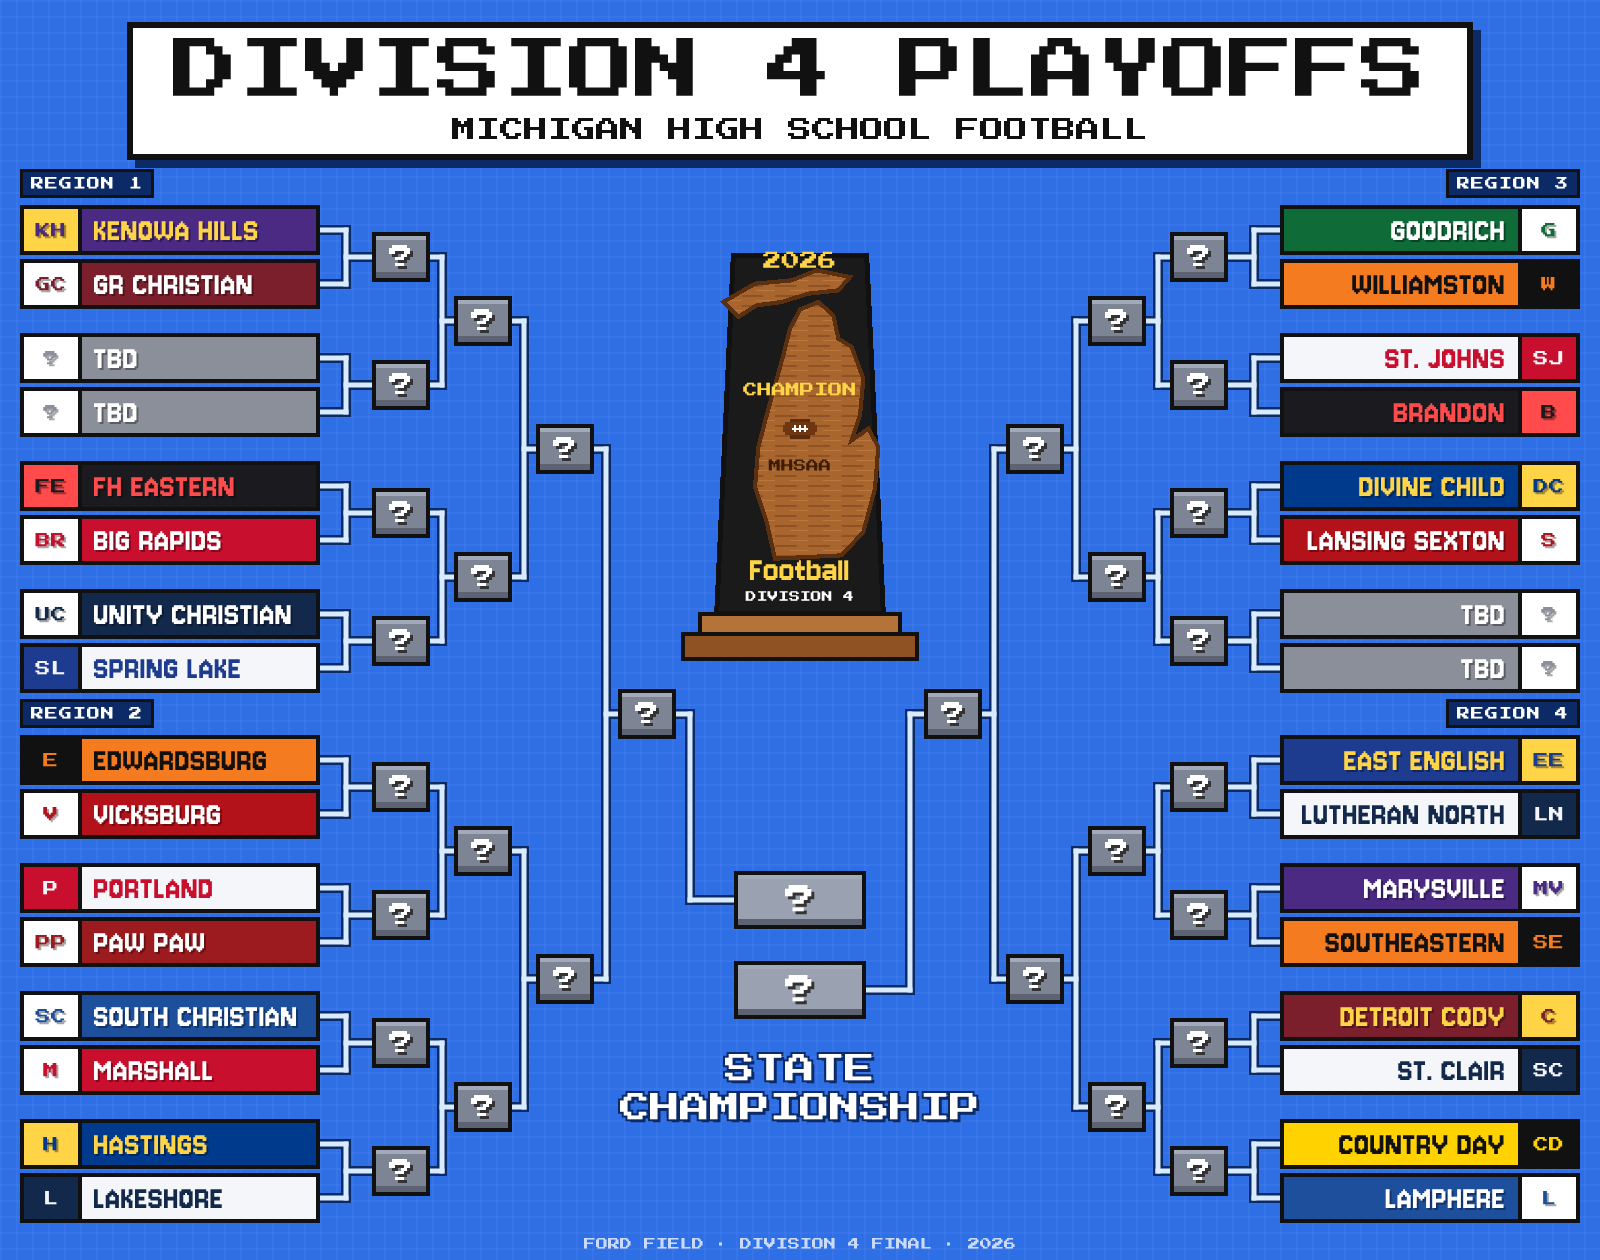
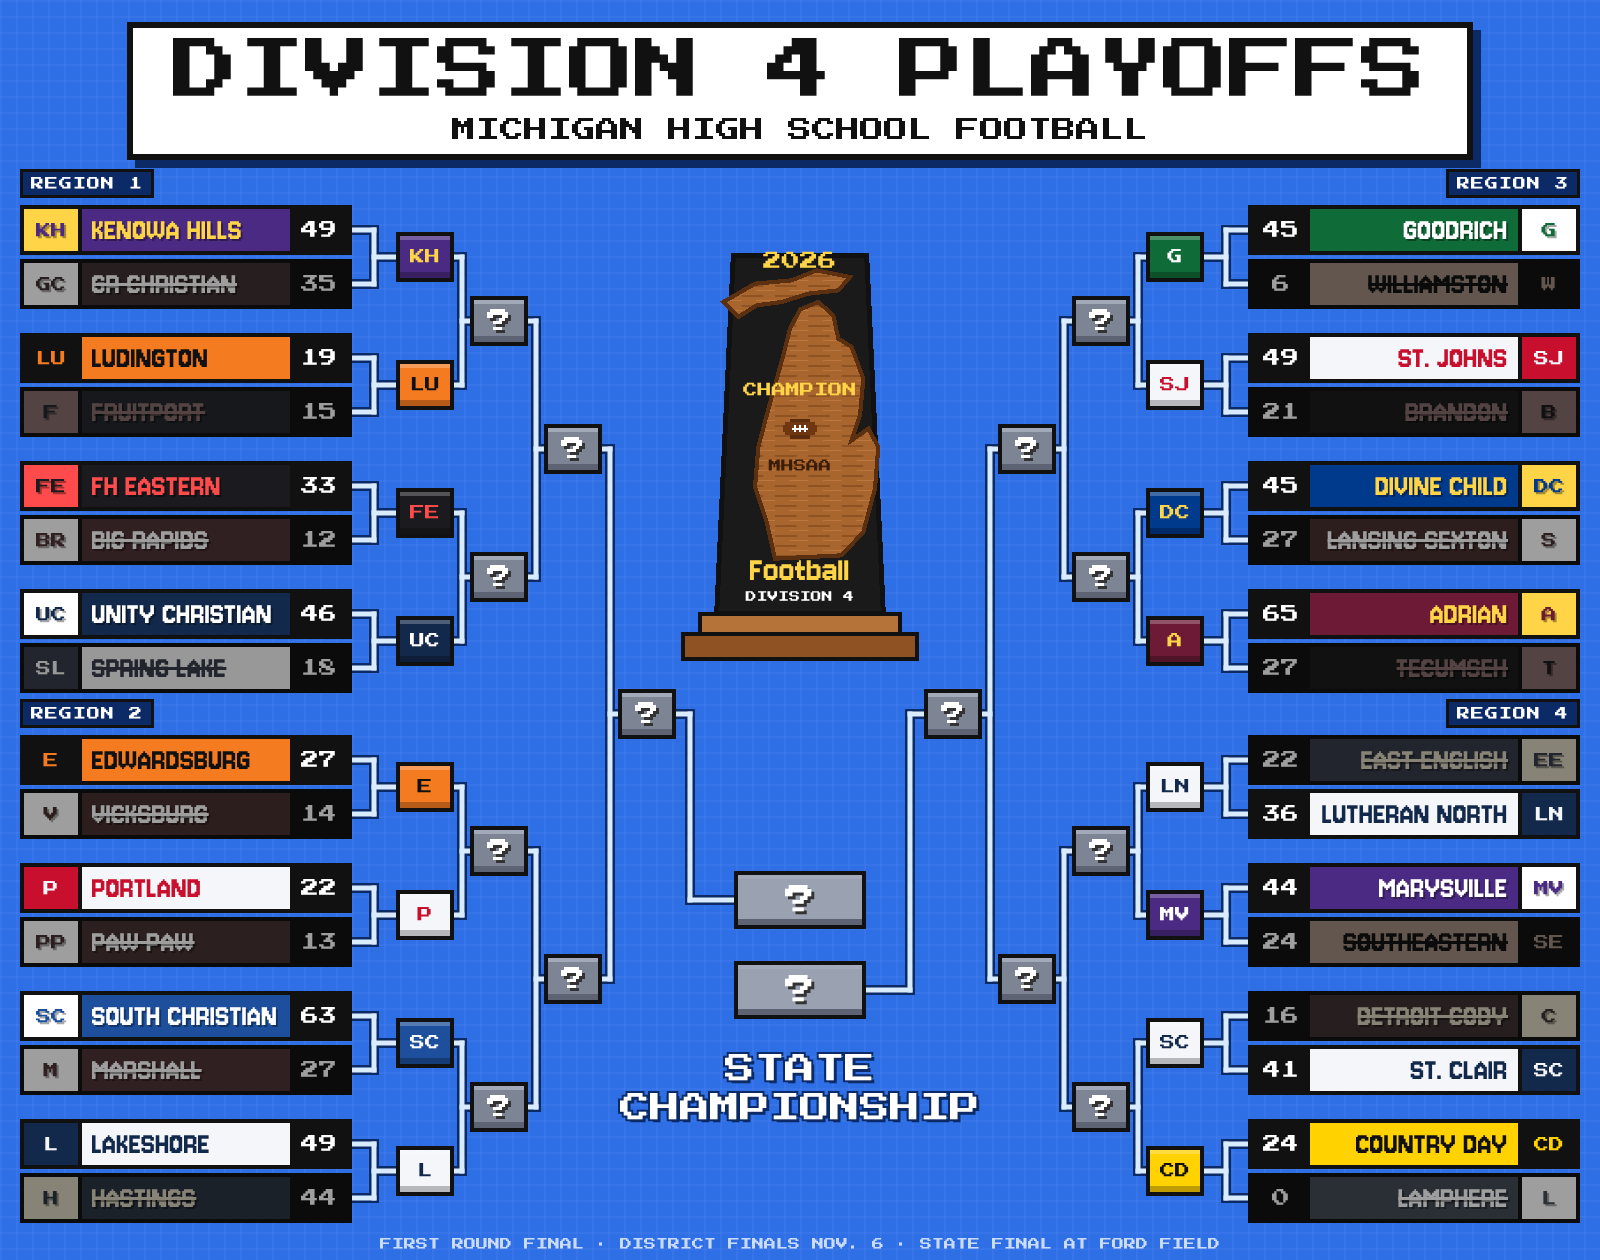
Fill in Division 4 first-round results
Claude-Session: https://claude.ai/code/session_01BgVrJkr3FxsWKHnwBBDvuB

diff --git a/d4-bracket/division4-bracket.html b/d4-bracket/division4-bracket.html
@@ -14,13 +14,18 @@ html,body{margin:0;background:#111}
 .title h2{margin:14px 0 0;font:400 24px/1 Silk;letter-spacing:0;color:#111}
 svg{position:absolute;left:0;top:0}
 .card{position:absolute;display:flex;align-items:center;border:4px solid #111;box-sizing:border-box;
-  font:400 35px/1 Pix;letter-spacing:.5px;text-shadow:2px 2px 0 rgba(0,0,0,.35);white-space:nowrap;overflow:hidden}
+  font:400 33px/1 Pix;letter-spacing:0;text-shadow:2px 2px 0 rgba(0,0,0,.35);white-space:nowrap;overflow:hidden}
 .card.light{text-shadow:none}
 .card .logo{flex:none;width:58px;height:100%;display:flex;align-items:center;justify-content:center;
   font:400 15px/1 Silk;border-right:4px solid #111;box-sizing:border-box}
-.card .nm{padding:0 12px;flex:1}
+.card .nm{padding:0 10px;flex:1;overflow:hidden}
 .right .logo{order:2;border-right:none;border-left:4px solid #111}
 .right .nm{text-align:right}
+.card .sc{flex:none;width:58px;height:100%;display:flex;align-items:center;justify-content:center;background:#111;color:#fff;font:400 18px/1 Silk;text-shadow:none}
+.right .sc{order:-1}
+.card.lost{filter:grayscale(.85) brightness(.62)}
+.card.lost .nm{text-decoration:line-through;text-decoration-thickness:3px}
+.q.win{font:400 15px/42px Silk;text-shadow:none;box-shadow:inset 0 -6px 0 rgba(0,0,0,.25), inset 0 4px 0 rgba(255,255,255,.25)}
 .q{position:absolute;width:58px;height:50px;background:#7d8494;border:4px solid #111;box-sizing:border-box;
   box-shadow:inset 0 -6px 0 #5d6372, inset 0 4px 0 #a2a9b8;color:#fff;font:400 24px/42px Silk;text-align:center;
   text-shadow:3px 3px 0 #333}
@@ -35,9 +40,9 @@ svg{position:absolute;left:0;top:0}
 <div id="trophy"></div>
 </div>
 <script>
-const LEFT=[{"n": "KENOWA HILLS", "m": "KH", "bg": "#4b2a83", "fg": "#ffd447"}, {"n": "GR CHRISTIAN", "m": "GC", "bg": "#7a1f2b", "fg": "#fff"}, {"n": "TBD", "m": "?", "bg": "#8a8f99", "fg": "#fff"}, {"n": "TBD", "m": "?", "bg": "#8a8f99", "fg": "#fff"}, {"n": "FH EASTERN", "m": "FE", "bg": "#1b1b1f", "fg": "#ff4b4b"}, {"n": "BIG RAPIDS", "m": "BR", "bg": "#c8102e", "fg": "#fff"}, {"n": "UNITY CHRISTIAN", "m": "UC", "bg": "#13294b", "fg": "#fff"}, {"n": "SPRING LAKE", "m": "SL", "bg": "#f4f6fa", "fg": "#1d3c8f"}, {"n": "EDWARDSBURG", "m": "E", "bg": "#f47b20", "fg": "#111"}, {"n": "VICKSBURG", "m": "V", "bg": "#b3121b", "fg": "#fff"}, {"n": "PORTLAND", "m": "P", "bg": "#f4f6fa", "fg": "#c8102e"}, {"n": "PAW PAW", "m": "PP", "bg": "#9b1b1f", "fg": "#fff"}, {"n": "SOUTH CHRISTIAN", "m": "SC", "bg": "#1d4f9c", "fg": "#fff"}, {"n": "MARSHALL", "m": "M", "bg": "#c8102e", "fg": "#fff"}, {"n": "HASTINGS", "m": "H", "bg": "#003a8c", "fg": "#ffd447"}, {"n": "LAKESHORE", "m": "L", "bg": "#f4f6fa", "fg": "#13294b"}], RIGHT=[{"n": "GOODRICH", "m": "G", "bg": "#0f6b37", "fg": "#fff"}, {"n": "WILLIAMSTON", "m": "W", "bg": "#f47b20", "fg": "#111"}, {"n": "ST. JOHNS", "m": "SJ", "bg": "#f4f6fa", "fg": "#c8102e"}, {"n": "BRANDON", "m": "B", "bg": "#1b1b1f", "fg": "#ff4b4b"}, {"n": "DIVINE CHILD", "m": "DC", "bg": "#003a8c", "fg": "#ffd447"}, {"n": "LANSING SEXTON", "m": "S", "bg": "#b3121b", "fg": "#fff"}, {"n": "TBD", "m": "?", "bg": "#8a8f99", "fg": "#fff"}, {"n": "TBD", "m": "?", "bg": "#8a8f99", "fg": "#fff"}, {"n": "EAST ENGLISH", "m": "EE", "bg": "#1d3c8f", "fg": "#ffd447"}, {"n": "LUTHERAN NORTH", "m": "LN", "bg": "#f4f6fa", "fg": "#13294b"}, {"n": "MARYSVILLE", "m": "MV", "bg": "#4b2a83", "fg": "#fff"}, {"n": "SOUTHEASTERN", "m": "SE", "bg": "#f47b20", "fg": "#111"}, {"n": "DETROIT CODY", "m": "C", "bg": "#7a1f2b", "fg": "#ffd447"}, {"n": "ST. CLAIR", "m": "SC", "bg": "#f4f6fa", "fg": "#13294b"}, {"n": "COUNTRY DAY", "m": "CD", "bg": "#ffd200", "fg": "#111"}, {"n": "LAMPHERE", "m": "L", "bg": "#1d4f9c", "fg": "#fff"}];
+const LEFT=[{"n": "KENOWA HILLS", "m": "KH", "bg": "#4b2a83", "fg": "#ffd447", "s": 49}, {"n": "GR CHRISTIAN", "m": "GC", "bg": "#7a1f2b", "fg": "#fff", "s": 35}, {"n": "LUDINGTON", "m": "LU", "bg": "#f47b20", "fg": "#111", "s": 19}, {"n": "FRUITPORT", "m": "F", "bg": "#13294b", "fg": "#ff4b4b", "s": 15}, {"n": "FH EASTERN", "m": "FE", "bg": "#1b1b1f", "fg": "#ff4b4b", "s": 33}, {"n": "BIG RAPIDS", "m": "BR", "bg": "#c8102e", "fg": "#fff", "s": 12}, {"n": "UNITY CHRISTIAN", "m": "UC", "bg": "#13294b", "fg": "#fff", "s": 46}, {"n": "SPRING LAKE", "m": "SL", "bg": "#f4f6fa", "fg": "#1d3c8f", "s": 18}, {"n": "EDWARDSBURG", "m": "E", "bg": "#f47b20", "fg": "#111", "s": 27}, {"n": "VICKSBURG", "m": "V", "bg": "#b3121b", "fg": "#fff", "s": 14}, {"n": "PORTLAND", "m": "P", "bg": "#f4f6fa", "fg": "#c8102e", "s": 22}, {"n": "PAW PAW", "m": "PP", "bg": "#9b1b1f", "fg": "#fff", "s": 13}, {"n": "SOUTH CHRISTIAN", "m": "SC", "bg": "#1d4f9c", "fg": "#fff", "s": 63}, {"n": "MARSHALL", "m": "M", "bg": "#c8102e", "fg": "#fff", "s": 27}, {"n": "LAKESHORE", "m": "L", "bg": "#f4f6fa", "fg": "#13294b", "s": 49}, {"n": "HASTINGS", "m": "H", "bg": "#003a8c", "fg": "#ffd447", "s": 44}], RIGHT=[{"n": "GOODRICH", "m": "G", "bg": "#0f6b37", "fg": "#fff", "s": 45}, {"n": "WILLIAMSTON", "m": "W", "bg": "#f47b20", "fg": "#111", "s": 6}, {"n": "ST. JOHNS", "m": "SJ", "bg": "#f4f6fa", "fg": "#c8102e", "s": 49}, {"n": "BRANDON", "m": "B", "bg": "#1b1b1f", "fg": "#ff4b4b", "s": 21}, {"n": "DIVINE CHILD", "m": "DC", "bg": "#003a8c", "fg": "#ffd447", "s": 45}, {"n": "LANSING SEXTON", "m": "S", "bg": "#b3121b", "fg": "#fff", "s": 27}, {"n": "ADRIAN", "m": "A", "bg": "#6d1a36", "fg": "#ffd447", "s": 65}, {"n": "TECUMSEH", "m": "T", "bg": "#1b1b1f", "fg": "#ff4b4b", "s": 27}, {"n": "EAST ENGLISH", "m": "EE", "bg": "#1d3c8f", "fg": "#ffd447", "s": 22}, {"n": "LUTHERAN NORTH", "m": "LN", "bg": "#f4f6fa", "fg": "#13294b", "s": 36}, {"n": "MARYSVILLE", "m": "MV", "bg": "#4b2a83", "fg": "#fff", "s": 44}, {"n": "SOUTHEASTERN", "m": "SE", "bg": "#f47b20", "fg": "#111", "s": 24}, {"n": "DETROIT CODY", "m": "C", "bg": "#7a1f2b", "fg": "#ffd447", "s": 16}, {"n": "ST. CLAIR", "m": "SC", "bg": "#f4f6fa", "fg": "#13294b", "s": 41}, {"n": "COUNTRY DAY", "m": "CD", "bg": "#ffd200", "fg": "#111", "s": 24}, {"n": "LAMPHERE", "m": "L", "bg": "#1d4f9c", "fg": "#fff", "s": 0}];
 const C=document.getElementById('c'), S=document.getElementById('lines');
-const W=1600, TOP=205, PAIR=128, CARD_H=50, CARD_W=300, BOX_W=58, BOX_H=50;
+const W=1600, TOP=205, PAIR=128, CARD_H=50, CARD_W=332, BOX_W=58, BOX_H=50;
 const LINE='#d9ecff', EDGE='#0b2a66';
 function el(cls,css,html){const d=document.createElement('div');d.className=cls;Object.assign(d.style,css);if(html!=null)d.innerHTML=html;C.appendChild(d);return d}
 function seg(x1,y1,x2,y2){for(const [c,w] of [[EDGE,10],[LINE,5]]){const l=document.createElementNS('http://www.w3.org/2000/svg','line');
@@ -50,17 +55,17 @@ function side(teams,dir){
   const right=dir<0, x0=right?W-20-CARD_W:20;
   const edge=right?x0:x0+CARD_W;
   // round x centers
-  const rx=[1,2,3,4].map(i=>right? edge-28-i*82+BOX_W/2 - 0 : edge+28+i*82-BOX_W/2);
+  const rx=[1,2,3,4].map(i=>right? edge-28-i*74+BOX_W/2 - 0 : edge+28+i*74-BOX_W/2);
   let ys=[];
   for(let p=0;p<8;p++){
     const y=TOP+p*PAIR + (p>=4?18:0);
-    const pairYs=[];
+    const pairYs=[];const a=teams[p*2],b=teams[p*2+1];const w=a.s>b.s?a:b;
     for(let k=0;k<2;k++){const t=teams[p*2+k];const light=t.bg=='#f4f6fa'||t.bg=='#ffd200'||t.bg=='#f47b20';
       const cy=y+k*(CARD_H+4);
-      const d=el('card'+(right?' right':'')+(light?' light':''),{left:x0+'px',top:cy+'px',width:CARD_W+'px',height:CARD_H+'px',background:t.bg,color:t.fg},
-        `<span class="logo" style="background:${t.fg};color:${t.bg}">${t.m}</span><span class="nm">${t.n}</span>`);
+      const d=el('card'+(right?' right':'')+(light?' light':'')+(t===w?'':' lost'),{left:x0+'px',top:cy+'px',width:CARD_W+'px',height:CARD_H+'px',background:t.bg,color:t.fg},
+        `<span class="logo" style="background:${t.fg};color:${t.bg}">${t.m}</span><span class="nm">${t.n}</span><span class="sc">${t.s}</span>`);
       pairYs.push(cy+CARD_H/2);}
-    const py=(pairYs[0]+pairYs[1])/2; join(edge,pairYs,rx[0]-dir*BOX_W/2,py,dir); box(rx[0],py); ys.push(py);
+    const py=(pairYs[0]+pairYs[1])/2; join(edge,pairYs,rx[0]-dir*BOX_W/2,py,dir); const wb=box(rx[0],py); wb.classList.add('win'); wb.textContent=w.m; wb.style.background=w.bg; wb.style.color=w.fg; ys.push(py);
   }
   for(let r=1;r<4;r++){const nys=[];for(let i=0;i<ys.length;i+=2){const py=(ys[i]+ys[i+1])/2;
     join(rx[r-1]+dir*BOX_W/2,[ys[i],ys[i+1]],rx[r]-dir*BOX_W/2,py,dir);box(rx[r],py);nys.push(py)}ys=nys}
@@ -77,7 +82,7 @@ seg(R.x,R.y,cx+110,R.y); seg(cx+110,cy2,cx+110,R.y); seg(cx+110,cy2,cx+66,cy2);
 el('champ',{top:'1050px'},'STATE<br>CHAMPIONSHIP');
 el('lbl',{left:'20px',top:(TOP-36)+'px'},'REGION 1');el('lbl',{left:'20px',top:(TOP+4*PAIR+18-36)+'px'},'REGION 2');
 el('lbl',{right:'20px',top:(TOP-36)+'px'},'REGION 3');el('lbl',{right:'20px',top:(TOP+4*PAIR+18-36)+'px'},'REGION 4');
-el('foot',{},'FORD FIELD &middot; DIVISION 4 FINAL &middot; 2026');
+el('foot',{},'FIRST ROUND FINAL &middot; DISTRICT FINALS NOV. 6 &middot; STATE FINAL AT FORD FIELD');
 // trophy (SVG, pixel-ish wooden Michigan plaque)
 document.getElementById('trophy').outerHTML=`<svg width="250" height="440" viewBox="0 0 300 528" style="left:675px;top:222px" shape-rendering="crispEdges">
  <defs><pattern id="wood" width="40" height="12" patternUnits="userSpaceOnUse"><rect width="40" height="12" fill="#a8652e"/><rect y="3" width="26" height="3" fill="#8f5222"/><rect x="18" y="9" width="22" height="2" fill="#bb7740"/></pattern></defs>

diff --git a/d4-bracket/build.py b/d4-bracket/build.py
@@ -5,30 +5,30 @@ silk = base64.b64encode(open("/tmp/ps2p.ttf", "rb").read()).decode()
 pix = base64.b64encode(open("/tmp/jersey.ttf", "rb").read()).decode()
 
 # (name, monogram, bg, fg) -- bg = card color, fg = text color
-T = lambda n, m, bg, fg="#fff": dict(n=n, m=m, bg=bg, fg=fg)
+T = lambda n, m, bg, fg="#fff", s=None: dict(n=n, m=m, bg=bg, fg=fg, s=s)
 TBD = T("TBD", "?", "#8a8f99", "#fff")
 
 # Bracket order: each group of 4 = one district (pairs feed a district final),
 # each group of 8 = one region.
-LEFT = [  # Regions 1 & 2
-    T("KENOWA HILLS", "KH", "#4b2a83", "#ffd447"), T("GR CHRISTIAN", "GC", "#7a1f2b"),
-    TBD, TBD,
-    T("FH EASTERN", "FE", "#1b1b1f", "#ff4b4b"), T("BIG RAPIDS", "BR", "#c8102e"),
-    T("UNITY CHRISTIAN", "UC", "#13294b"), T("SPRING LAKE", "SL", "#f4f6fa", "#1d3c8f"),
-    T("EDWARDSBURG", "E", "#f47b20", "#111"), T("VICKSBURG", "V", "#b3121b"),
-    T("PORTLAND", "P", "#f4f6fa", "#c8102e"), T("PAW PAW", "PP", "#9b1b1f"),
-    T("SOUTH CHRISTIAN", "SC", "#1d4f9c"), T("MARSHALL", "M", "#c8102e"),
-    T("HASTINGS", "H", "#003a8c", "#ffd447"), T("LAKESHORE", "L", "#f4f6fa", "#13294b"),
+LEFT = [  # Regions 1 & 2  (s = first-round score)
+    T("KENOWA HILLS", "KH", "#4b2a83", "#ffd447", 49), T("GR CHRISTIAN", "GC", "#7a1f2b", s=35),
+    T("LUDINGTON", "LU", "#f47b20", "#111", 19), T("FRUITPORT", "F", "#13294b", "#ff4b4b", 15),
+    T("FH EASTERN", "FE", "#1b1b1f", "#ff4b4b", 33), T("BIG RAPIDS", "BR", "#c8102e", s=12),
+    T("UNITY CHRISTIAN", "UC", "#13294b", s=46), T("SPRING LAKE", "SL", "#f4f6fa", "#1d3c8f", 18),
+    T("EDWARDSBURG", "E", "#f47b20", "#111", 27), T("VICKSBURG", "V", "#b3121b", s=14),
+    T("PORTLAND", "P", "#f4f6fa", "#c8102e", 22), T("PAW PAW", "PP", "#9b1b1f", s=13),
+    T("SOUTH CHRISTIAN", "SC", "#1d4f9c", s=63), T("MARSHALL", "M", "#c8102e", s=27),
+    T("LAKESHORE", "L", "#f4f6fa", "#13294b", 49), T("HASTINGS", "H", "#003a8c", "#ffd447", 44),
 ]
 RIGHT = [  # Regions 3 & 4
-    T("GOODRICH", "G", "#0f6b37"), T("WILLIAMSTON", "W", "#f47b20", "#111"),
-    T("ST. JOHNS", "SJ", "#f4f6fa", "#c8102e"), T("BRANDON", "B", "#1b1b1f", "#ff4b4b"),
-    T("DIVINE CHILD", "DC", "#003a8c", "#ffd447"), T("LANSING SEXTON", "S", "#b3121b"),
-    TBD, TBD,
-    T("EAST ENGLISH", "EE", "#1d3c8f", "#ffd447"), T("LUTHERAN NORTH", "LN", "#f4f6fa", "#13294b"),
-    T("MARYSVILLE", "MV", "#4b2a83"), T("SOUTHEASTERN", "SE", "#f47b20", "#111"),
-    T("DETROIT CODY", "C", "#7a1f2b", "#ffd447"), T("ST. CLAIR", "SC", "#f4f6fa", "#13294b"),
-    T("COUNTRY DAY", "CD", "#ffd200", "#111"), T("LAMPHERE", "L", "#1d4f9c"),
+    T("GOODRICH", "G", "#0f6b37", s=45), T("WILLIAMSTON", "W", "#f47b20", "#111", 6),
+    T("ST. JOHNS", "SJ", "#f4f6fa", "#c8102e", 49), T("BRANDON", "B", "#1b1b1f", "#ff4b4b", 21),
+    T("DIVINE CHILD", "DC", "#003a8c", "#ffd447", 45), T("LANSING SEXTON", "S", "#b3121b", s=27),
+    T("ADRIAN", "A", "#6d1a36", "#ffd447", 65), T("TECUMSEH", "T", "#1b1b1f", "#ff4b4b", 27),
+    T("EAST ENGLISH", "EE", "#1d3c8f", "#ffd447", 22), T("LUTHERAN NORTH", "LN", "#f4f6fa", "#13294b", 36),
+    T("MARYSVILLE", "MV", "#4b2a83", s=44), T("SOUTHEASTERN", "SE", "#f47b20", "#111", 24),
+    T("DETROIT CODY", "C", "#7a1f2b", "#ffd447", 16), T("ST. CLAIR", "SC", "#f4f6fa", "#13294b", 41),
+    T("COUNTRY DAY", "CD", "#ffd200", "#111", 24), T("LAMPHERE", "L", "#1d4f9c", s=0),
 ]
 
 html = r"""<!DOCTYPE html>
@@ -47,13 +47,18 @@ html,body{margin:0;background:#111}
 .title h2{margin:14px 0 0;font:400 24px/1 Silk;letter-spacing:0;color:#111}
 svg{position:absolute;left:0;top:0}
 .card{position:absolute;display:flex;align-items:center;border:4px solid #111;box-sizing:border-box;
-  font:400 35px/1 Pix;letter-spacing:.5px;text-shadow:2px 2px 0 rgba(0,0,0,.35);white-space:nowrap;overflow:hidden}
+  font:400 33px/1 Pix;letter-spacing:0;text-shadow:2px 2px 0 rgba(0,0,0,.35);white-space:nowrap;overflow:hidden}
 .card.light{text-shadow:none}
 .card .logo{flex:none;width:58px;height:100%;display:flex;align-items:center;justify-content:center;
   font:400 15px/1 Silk;border-right:4px solid #111;box-sizing:border-box}
-.card .nm{padding:0 12px;flex:1}
+.card .nm{padding:0 10px;flex:1;overflow:hidden}
 .right .logo{order:2;border-right:none;border-left:4px solid #111}
 .right .nm{text-align:right}
+.card .sc{flex:none;width:58px;height:100%;display:flex;align-items:center;justify-content:center;background:#111;color:#fff;font:400 18px/1 Silk;text-shadow:none}
+.right .sc{order:-1}
+.card.lost{filter:grayscale(.85) brightness(.62)}
+.card.lost .nm{text-decoration:line-through;text-decoration-thickness:3px}
+.q.win{font:400 15px/42px Silk;text-shadow:none;box-shadow:inset 0 -6px 0 rgba(0,0,0,.25), inset 0 4px 0 rgba(255,255,255,.25)}
 .q{position:absolute;width:58px;height:50px;background:#7d8494;border:4px solid #111;box-sizing:border-box;
   box-shadow:inset 0 -6px 0 #5d6372, inset 0 4px 0 #a2a9b8;color:#fff;font:400 24px/42px Silk;text-align:center;
   text-shadow:3px 3px 0 #333}
@@ -70,7 +75,7 @@ svg{position:absolute;left:0;top:0}
 <script>
 const LEFT=__LEFT__, RIGHT=__RIGHT__;
 const C=document.getElementById('c'), S=document.getElementById('lines');
-const W=1600, TOP=205, PAIR=128, CARD_H=50, CARD_W=300, BOX_W=58, BOX_H=50;
+const W=1600, TOP=205, PAIR=128, CARD_H=50, CARD_W=332, BOX_W=58, BOX_H=50;
 const LINE='#d9ecff', EDGE='#0b2a66';
 function el(cls,css,html){const d=document.createElement('div');d.className=cls;Object.assign(d.style,css);if(html!=null)d.innerHTML=html;C.appendChild(d);return d}
 function seg(x1,y1,x2,y2){for(const [c,w] of [[EDGE,10],[LINE,5]]){const l=document.createElementNS('http://www.w3.org/2000/svg','line');
@@ -83,17 +88,17 @@ function side(teams,dir){
   const right=dir<0, x0=right?W-20-CARD_W:20;
   const edge=right?x0:x0+CARD_W;
   // round x centers
-  const rx=[1,2,3,4].map(i=>right? edge-28-i*82+BOX_W/2 - 0 : edge+28+i*82-BOX_W/2);
+  const rx=[1,2,3,4].map(i=>right? edge-28-i*74+BOX_W/2 - 0 : edge+28+i*74-BOX_W/2);
   let ys=[];
   for(let p=0;p<8;p++){
     const y=TOP+p*PAIR + (p>=4?18:0);
-    const pairYs=[];
+    const pairYs=[];const a=teams[p*2],b=teams[p*2+1];const w=a.s>b.s?a:b;
     for(let k=0;k<2;k++){const t=teams[p*2+k];const light=t.bg=='#f4f6fa'||t.bg=='#ffd200'||t.bg=='#f47b20';
       const cy=y+k*(CARD_H+4);
-      const d=el('card'+(right?' right':'')+(light?' light':''),{left:x0+'px',top:cy+'px',width:CARD_W+'px',height:CARD_H+'px',background:t.bg,color:t.fg},
-        `<span class="logo" style="background:${t.fg};color:${t.bg}">${t.m}</span><span class="nm">${t.n}</span>`);
+      const d=el('card'+(right?' right':'')+(light?' light':'')+(t===w?'':' lost'),{left:x0+'px',top:cy+'px',width:CARD_W+'px',height:CARD_H+'px',background:t.bg,color:t.fg},
+        `<span class="logo" style="background:${t.fg};color:${t.bg}">${t.m}</span><span class="nm">${t.n}</span><span class="sc">${t.s}</span>`);
       pairYs.push(cy+CARD_H/2);}
-    const py=(pairYs[0]+pairYs[1])/2; join(edge,pairYs,rx[0]-dir*BOX_W/2,py,dir); box(rx[0],py); ys.push(py);
+    const py=(pairYs[0]+pairYs[1])/2; join(edge,pairYs,rx[0]-dir*BOX_W/2,py,dir); const wb=box(rx[0],py); wb.classList.add('win'); wb.textContent=w.m; wb.style.background=w.bg; wb.style.color=w.fg; ys.push(py);
   }
   for(let r=1;r<4;r++){const nys=[];for(let i=0;i<ys.length;i+=2){const py=(ys[i]+ys[i+1])/2;
     join(rx[r-1]+dir*BOX_W/2,[ys[i],ys[i+1]],rx[r]-dir*BOX_W/2,py,dir);box(rx[r],py);nys.push(py)}ys=nys}
@@ -110,7 +115,7 @@ seg(R.x,R.y,cx+110,R.y); seg(cx+110,cy2,cx+110,R.y); seg(cx+110,cy2,cx+66,cy2);
 el('champ',{top:'1050px'},'STATE<br>CHAMPIONSHIP');
 el('lbl',{left:'20px',top:(TOP-36)+'px'},'REGION 1');el('lbl',{left:'20px',top:(TOP+4*PAIR+18-36)+'px'},'REGION 2');
 el('lbl',{right:'20px',top:(TOP-36)+'px'},'REGION 3');el('lbl',{right:'20px',top:(TOP+4*PAIR+18-36)+'px'},'REGION 4');
-el('foot',{},'FORD FIELD &middot; DIVISION 4 FINAL &middot; 2026');
+el('foot',{},'FIRST ROUND FINAL &middot; DISTRICT FINALS NOV. 6 &middot; STATE FINAL AT FORD FIELD');
 // trophy (SVG, pixel-ish wooden Michigan plaque)
 document.getElementById('trophy').outerHTML=`<svg width="250" height="440" viewBox="0 0 300 528" style="left:675px;top:222px" shape-rendering="crispEdges">
  <defs><pattern id="wood" width="40" height="12" patternUnits="userSpaceOnUse"><rect width="40" height="12" fill="#a8652e"/><rect y="3" width="26" height="3" fill="#8f5222"/><rect x="18" y="9" width="22" height="2" fill="#bb7740"/></pattern></defs>
